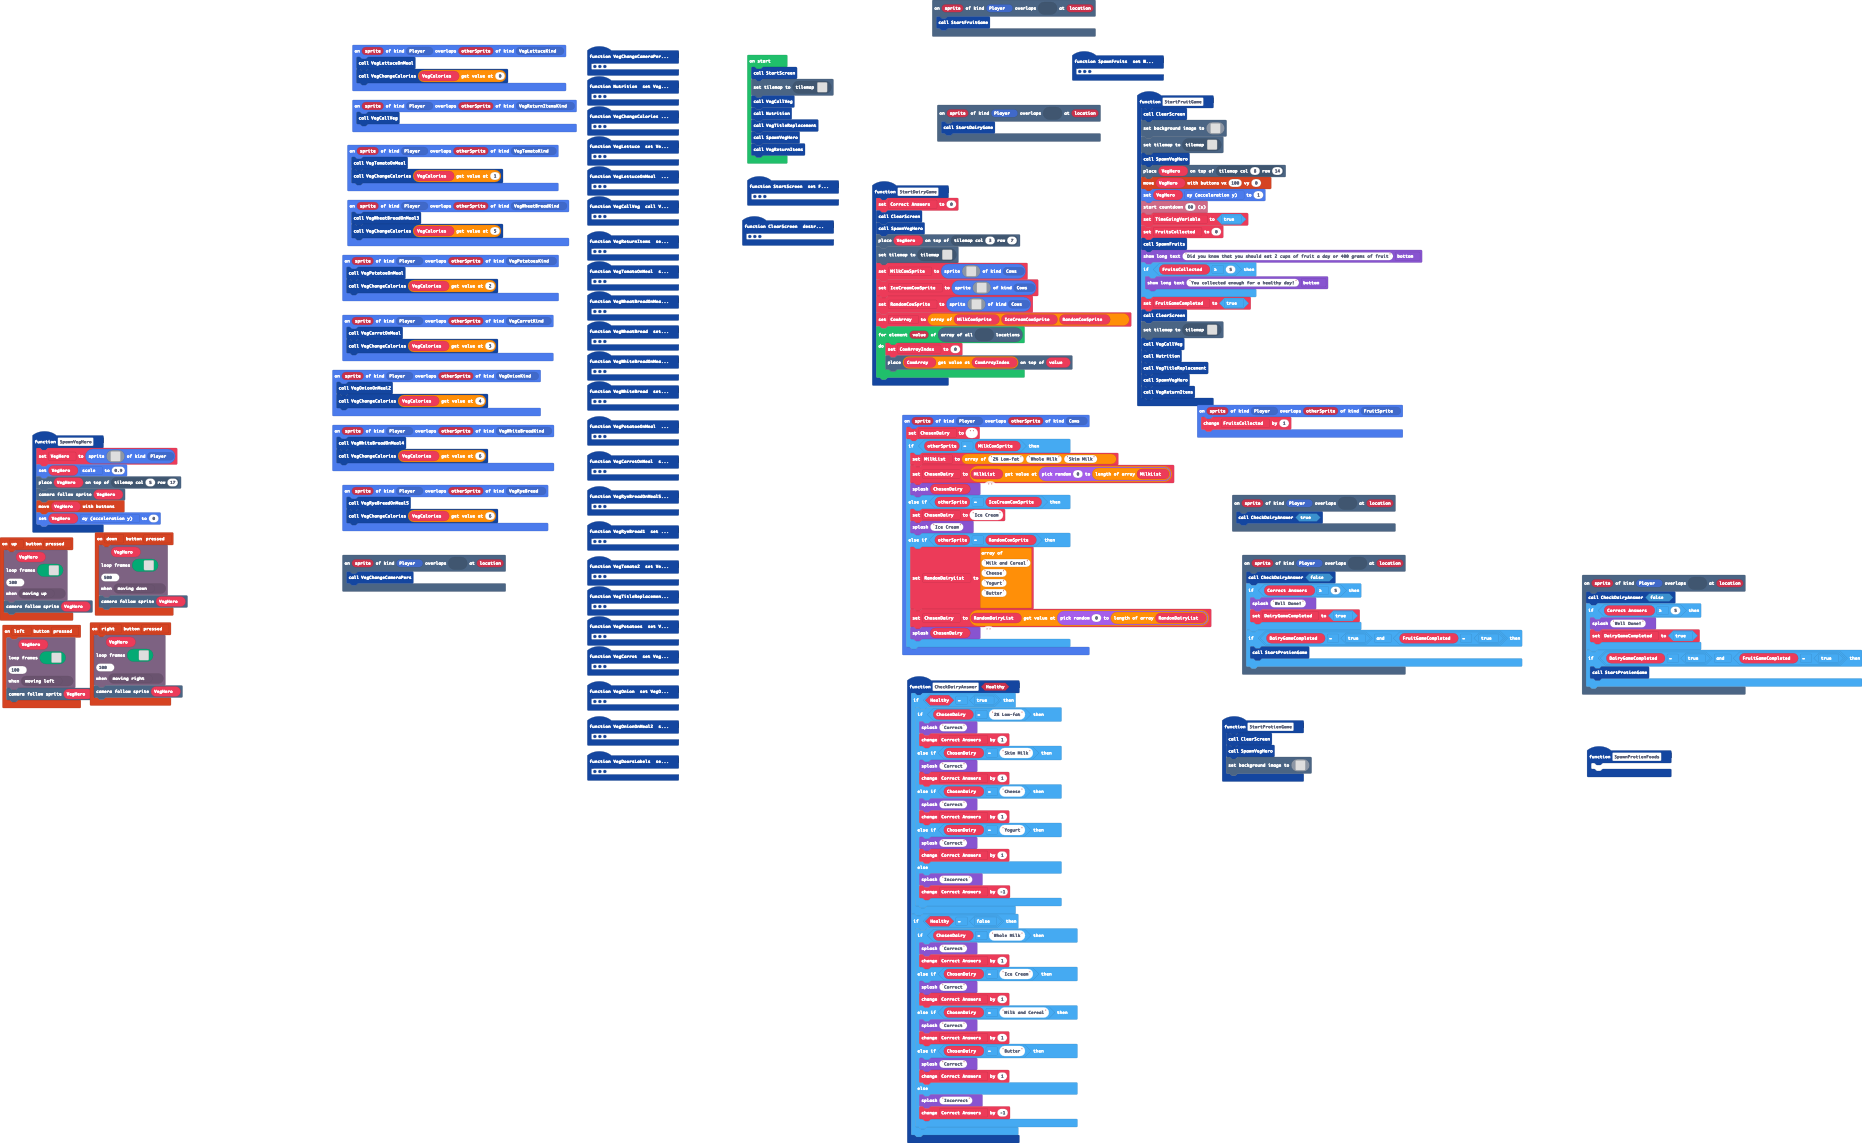
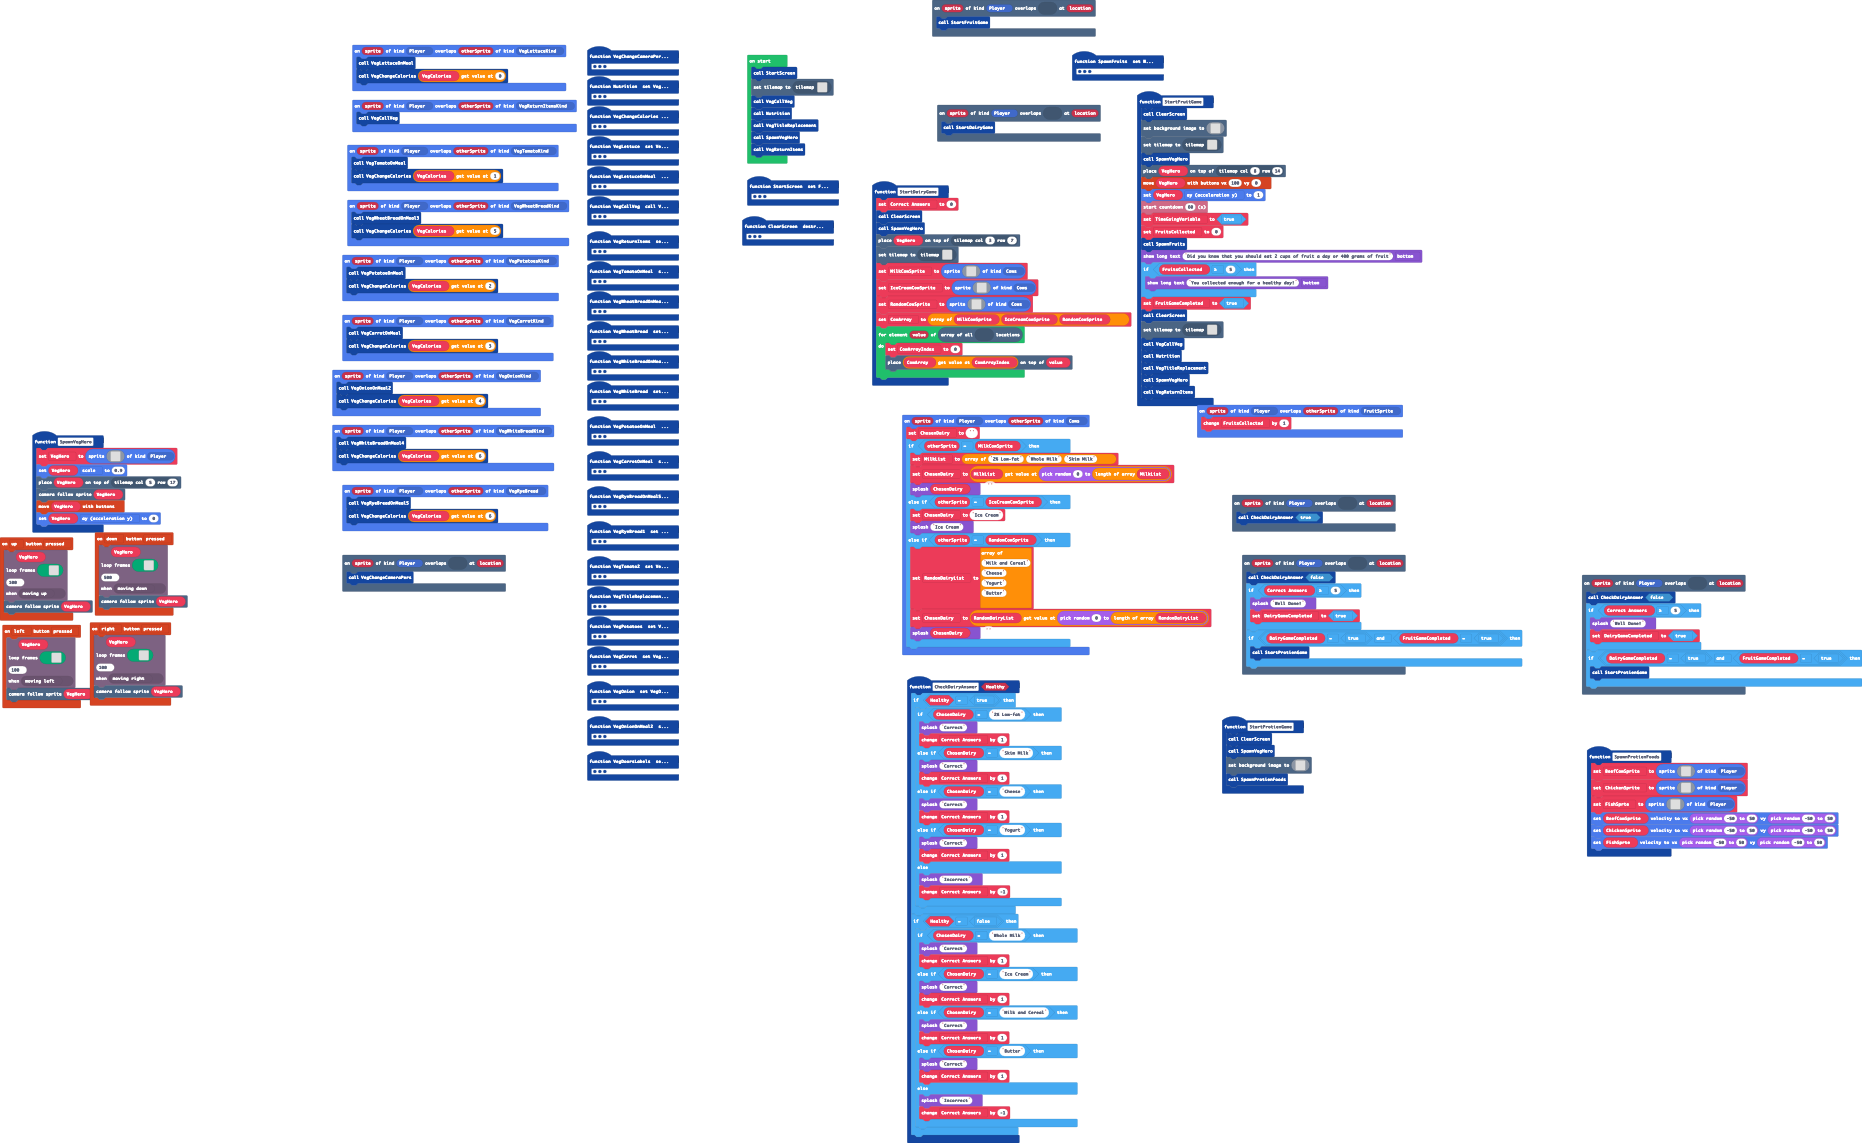
Update main.blocks, main.ts

Changed region(s): [[0.841, 0.643, 0.9968, 0.7655], [0.6541, 0.6737, 0.7164, 0.7043]]

diff --git a/main.ts b/main.ts
@@ -561,6 +561,7 @@ function StartProtienGame () {
         7777777777777777777777777777777777777777777777777777777777777777777777777777777777777777777777777777777777777777777777777777777777777777777777777777777777777777
         7777777777777777777777777777777777777777777777777777777777777777777777777777777777777777777777777777777777777777777777777777777777777777777777777777777777777777
         `)
+    SpawnProtienFoods()
 }
 function VegCarrotOnMeal () {
     VegCarrotOnMeal1 = sprites.create(img`
@@ -1521,7 +1522,79 @@ function VegRyeBreadOnMeal5 () {
     sprites.destroy(VegRyeBread2)
 }
 function SpawnProtienFoods () {
-	
+    BeefCowSprite = sprites.create(img`
+        ................................
+        ................................
+        ................................
+        ..............ffffff............
+        ...........fffeeee11fff.........
+        ...........fffeeee11fff.........
+        ........fff111eeee11111fff......
+        .......f1111eeeeeee11111eef.....
+        ......feeeeefffeeeefffeeeeef....
+        ......feeeef55feeeef55feeeef....
+        ......feeeef55feeeef55feeeef....
+        ....ffefffff55ffffff55fffffeff..
+        ....fffeeeeeeeeeeeeeeeeeeeefff..
+        ....fffe3333eeeeeeeeee3333efff..
+        ....fffe3333eeeeeeeeee3333efff..
+        ....fffe3333eeeeeeeeee3333efff..
+        ....fffeeeeeeeee11eeeeeeeeefff..
+        ....ffeffffeeefe11efeeeffffeff..
+        ....ffeeeefeeef1111feeefeeeeff..
+        ....ffeeeefeeef1111feeefeeeeff..
+        ....ffeeff12221111112221ffeeff..
+        ......feff13333333333331ffef....
+        ......feff13333333333331ffef....
+        ......feff13333333333331ffef....
+        .......fff1333f3333f3331fff.....
+        ........fff333333333333fff......
+        ........ffffffffffffffffff......
+        ..........feeef....feeef........
+        ..........feeef....feeef........
+        ...........ffff....ffff.........
+        ................................
+        ................................
+        `, SpriteKind.Player)
+    ChickenSprite = sprites.create(img`
+        . . . . . . e e e e . . . . . . 
+        . . . . . e 2 2 2 e . . . . . . 
+        . . . . e 2 2 e e . . . . . . . 
+        . . . e d d d d e . . . . . . . 
+        . . e d f e f d d e . e e e e . 
+        . . e d f e f e d e e d d d d e 
+        . e 5 5 d e d e e e d d d d d e 
+        . . e d d e e e e d e e e d e . 
+        . e d d d e e e e d d e e d d e 
+        e d d e d d d e e e d d e d d e 
+        e d d e e d d e e d e e d d e . 
+        e d d d e d d d e d d d d d e . 
+        . e d d e e d d d d d d d e . . 
+        . . e e d d d d d d d d e e . . 
+        . . . e e d d d e e d e e . . . 
+        . . e 5 5 5 e 5 5 5 e . . . . . 
+        `, SpriteKind.Player)
+    FishSprte = sprites.create(img`
+        . . . . . . . . . . . . . . . . 
+        . . . . . . . . c c c c . . . . 
+        . . . . . . c c d d d d c . . . 
+        . . . . . c c c c c c d c . . . 
+        . . . . c c 4 4 4 4 d c c . . . 
+        . . . c 4 d 4 4 4 4 4 1 c . c c 
+        . . c 4 4 4 1 4 4 4 4 d 1 c 4 c 
+        . c 4 4 4 4 1 4 4 4 4 4 1 c 4 c 
+        f 4 4 4 4 4 1 4 4 4 4 4 1 4 4 f 
+        f 4 4 4 f 4 1 c c 4 4 4 1 f 4 f 
+        f 4 4 4 4 4 1 4 4 f 4 4 d f 4 f 
+        . f 4 4 4 4 1 c 4 f 4 d f f f f 
+        . . f f 4 d 4 4 f f 4 c f c . . 
+        . . . . f f 4 4 4 4 c d b c . . 
+        . . . . . . f f f f d d d c . . 
+        . . . . . . . . . . c c c . . . 
+        `, SpriteKind.Player)
+    BeefCowSprite.setVelocity(randint(-50, 50), randint(-50, 50))
+    ChickenSprite.setVelocity(randint(-50, 50), randint(-50, 50))
+    FishSprte.setVelocity(randint(-50, 50), randint(-50, 50))
 }
 scene.onOverlapTile(SpriteKind.Player, assets.tile`myTile31`, function (sprite, location) {
     CheckDairyAnswer(false)
@@ -1796,6 +1869,9 @@ function VegWheatBread () {
     VegWheatBread1.scale = 0.3
 }
 let VegOnionOnMeal: Sprite = null
+let FishSprte: Sprite = null
+let ChickenSprite: Sprite = null
+let BeefCowSprite: Sprite = null
 let VegRyeBreadOnMeal2: Sprite = null
 let VegRocks: Sprite = null
 let FallingFruit: Sprite = null
